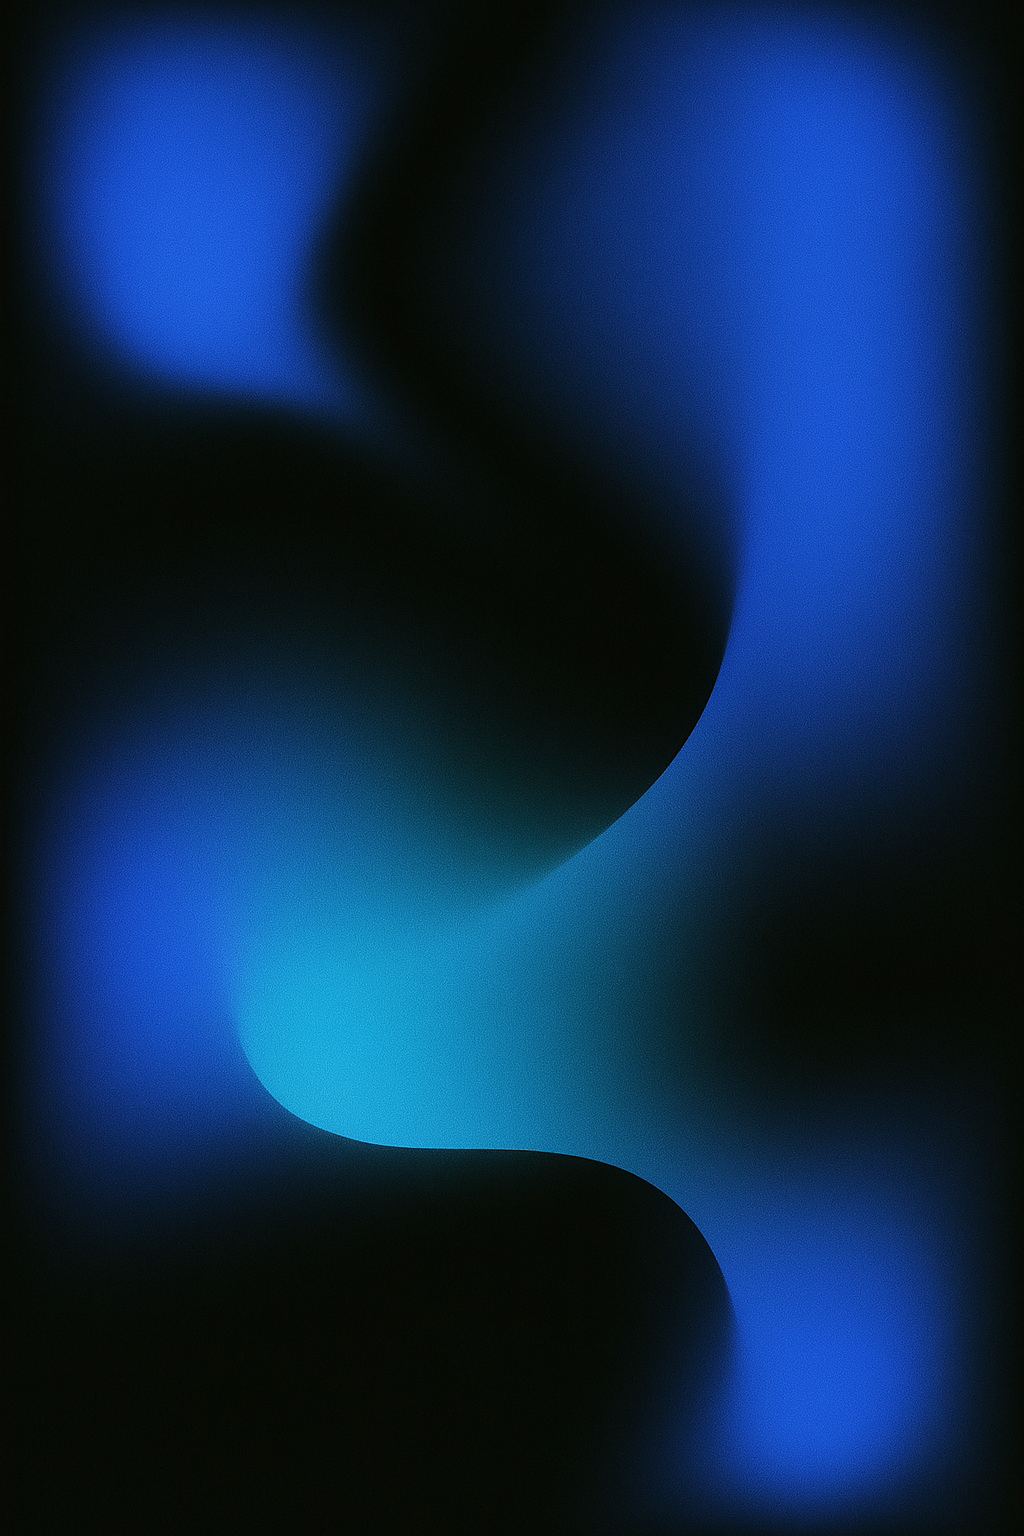
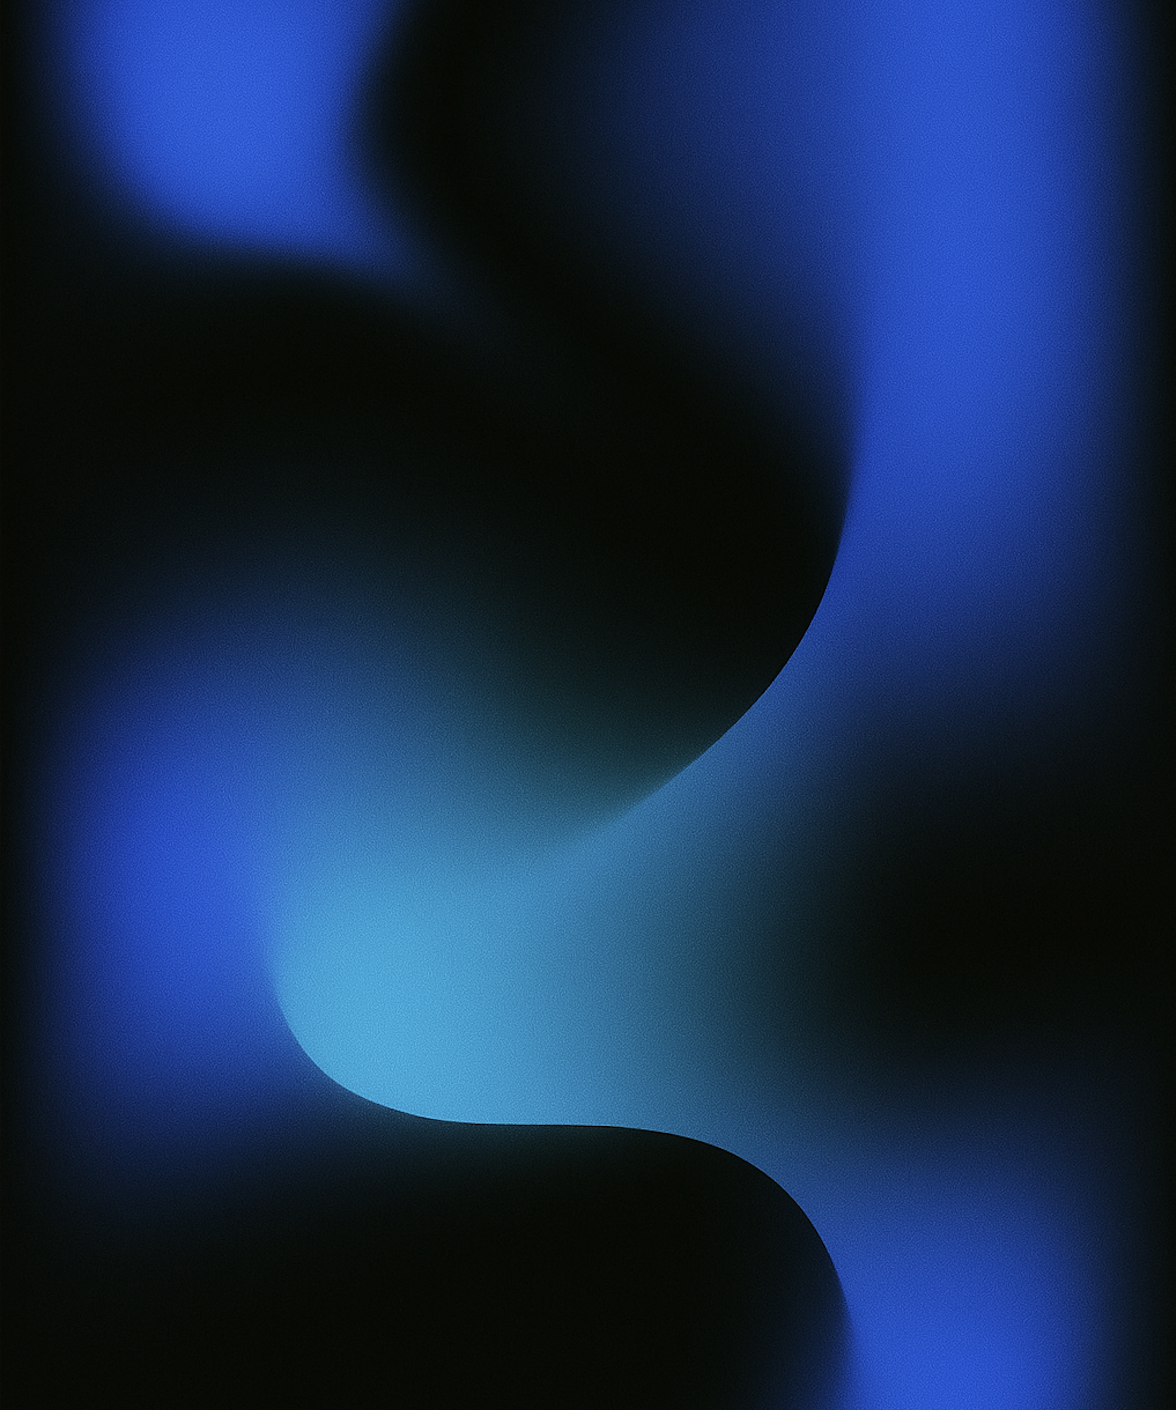
Using Webp image for auth page

diff --git a/Frontend/src/pages/AuthPage.jsx b/Frontend/src/pages/AuthPage.jsx
@@ -31,6 +31,8 @@ export default function AuthPage() {
   const [error, setError] = useState("");
   const [success, setSuccess] = useState("");
 
+  
+
   // Validation
   const isValidEmail = /^[^\s@]+@[^\s@]+\.[^\s@]+$/.test(email);
   const isValidPassword = password.length >= 8;
@@ -110,14 +112,12 @@ export default function AuthPage() {
             <h1 className="text-5xl font-medium pb-2 bg-gradient-to-r from-[#459ddc] via-[#dadada] to-[#459ddc] text-transparent bg-clip-text">
                 Memory Lane
             </h1>
-            
-
             {error && <div className="w-full px-4 py-3 rounded-lg bg-red-900/50 border border-red-500 text-red-100">{error}</div>}
             {success && <div className="w-full px-4 py-3 rounded-lg bg-green-900/50 border border-green-500 text-green-100">{success}</div>}
 
             <div className="w-full space-y-6">
               <Button 
-                className="w-full bg-neutral-700 hover:bg-neutral-400 text-white gap-4"
+                className="w-full bg-neutral-800 hover:bg-neutral-700 text-white gap-4"
                 onClick={handleGoogleAuth}
                 disabled={isProcessing}
               >
@@ -126,9 +126,9 @@ export default function AuthPage() {
               </Button>
 
               <div className="relative my-2">
-                <div className="absolute inset-0 flex items-center"><div className="w-full border-t border-gray-700"></div></div>
+                <div className="absolute inset-0 flex items-center"></div>
                 <div className="relative flex justify-center text-sm">
-                  <span className="px-2 text-gray-500 bg-black">Or continue with</span>
+                  <span className="px-2 text-gray-500">Or continue with</span>
                 </div>
               </div>
 
@@ -139,7 +139,7 @@ export default function AuthPage() {
                     placeholder="Your Name"
                     value={name}
                     onChange={(e) => setName(e.target.value)}
-                    className="w-full p-4 bg-black border border-gray-700 rounded-full text-white focus:outline-none focus:ring-2 focus:ring-[#459ddc]"
+                    className="w-full p-4 bg-transparent border border-gray-700 rounded-full text-white focus:outline-none focus:ring-2 focus:ring-[#459ddc]"
                   />
                 )}
                 <input
@@ -147,14 +147,14 @@ export default function AuthPage() {
                   placeholder="Email address"
                   value={email}
                   onChange={(e) => setEmail(e.target.value)}
-                  className={`w-full p-4 bg-black border ${!isValidEmail && email ? "border-red-500" : "border-gray-700"} rounded-full text-white focus:outline-none focus:ring-2 focus:ring-[#459ddc]`}
+                  className={`w-full p-4 bg-transparent border ${!isValidEmail && email ? "border-red-500" : "border-gray-700"} rounded-full text-white focus:outline-none focus:ring-2 focus:ring-[#459ddc]`}
                 />
                 <input
                   type="password"
                   placeholder="Password"
                   value={password}
                   onChange={(e) => setPassword(e.target.value)}
-                  className={`w-full p-4 bg-black border ${!isValidPassword && password ? "border-red-500" : "border-gray-700"} rounded-full text-white focus:outline-none focus:ring-2 focus:ring-[#459ddc]`}
+                  className={`w-full p-4 bg-transparent border ${!isValidPassword && password ? "border-red-500" : "border-gray-700"} rounded-full text-white focus:outline-none focus:ring-2 focus:ring-[#459ddc]`}
                 />
                 {!isLogin && (
                   <input
@@ -162,7 +162,7 @@ export default function AuthPage() {
                     placeholder="Confirm Password"
                     value={confirmPassword}
                     onChange={(e) => setConfirmPassword(e.target.value)}
-                    className={`w-full p-4 bg-black border ${!isConfirmMatch && confirmPassword ? "border-red-500" : "border-gray-700"} rounded-full text-white focus:outline-none focus:ring-2 focus:ring-[#459ddc]`}
+                    className={`w-full p-4 bg-transparent border ${!isConfirmMatch && confirmPassword ? "border-red-500" : "border-gray-700"} rounded-full text-white focus:outline-none focus:ring-2 focus:ring-[#459ddc]`}
                   />
                 )}
                 <Button 
@@ -176,14 +176,14 @@ export default function AuthPage() {
               </form>
             </div>
             <div className>
-            <p className="text-lg text-gray-500 pb-6">
+            <p className="text-lg text-gray-300 pb-6">
               {isLogin ? "Don't have an account?" : "Already have an account?"}{" "}
               <span className="text-[#459ddc] cursor-pointer hover:underline" onClick={() => setIsLogin(!isLogin)}>
-                {isLogin ? "Sign up" : "Login"} here.
+                {isLogin ? "Sign up" : "Log in"} here.
               </span>
             </p>
 
-            <div className="text-md text-gray-400 space-x-4">
+            <div className="text-md text-gray-300 space-x-4">
               <a href="#" className="hover:underline">Terms of Use</a>
               <span>|</span>
               <a href="#" className="hover:underline">Privacy Policy</a>

diff --git a/Frontend/src/assets/assets.js b/Frontend/src/assets/assets.js
@@ -1,12 +1,14 @@
 import hero_bg from './images/hero_background.png'
 import logo from './images/Element.png'
 import element from './images/Element_copy.png'
-import login_bg from './images/login.png'
+import login_bg from './images/login.webp'
+import login_min from './images/login_min.png'
 
 
 export const assets = {
     hero_bg,
     logo,
     element,
-    login_bg
+    login_bg,
+    login_min
 }
